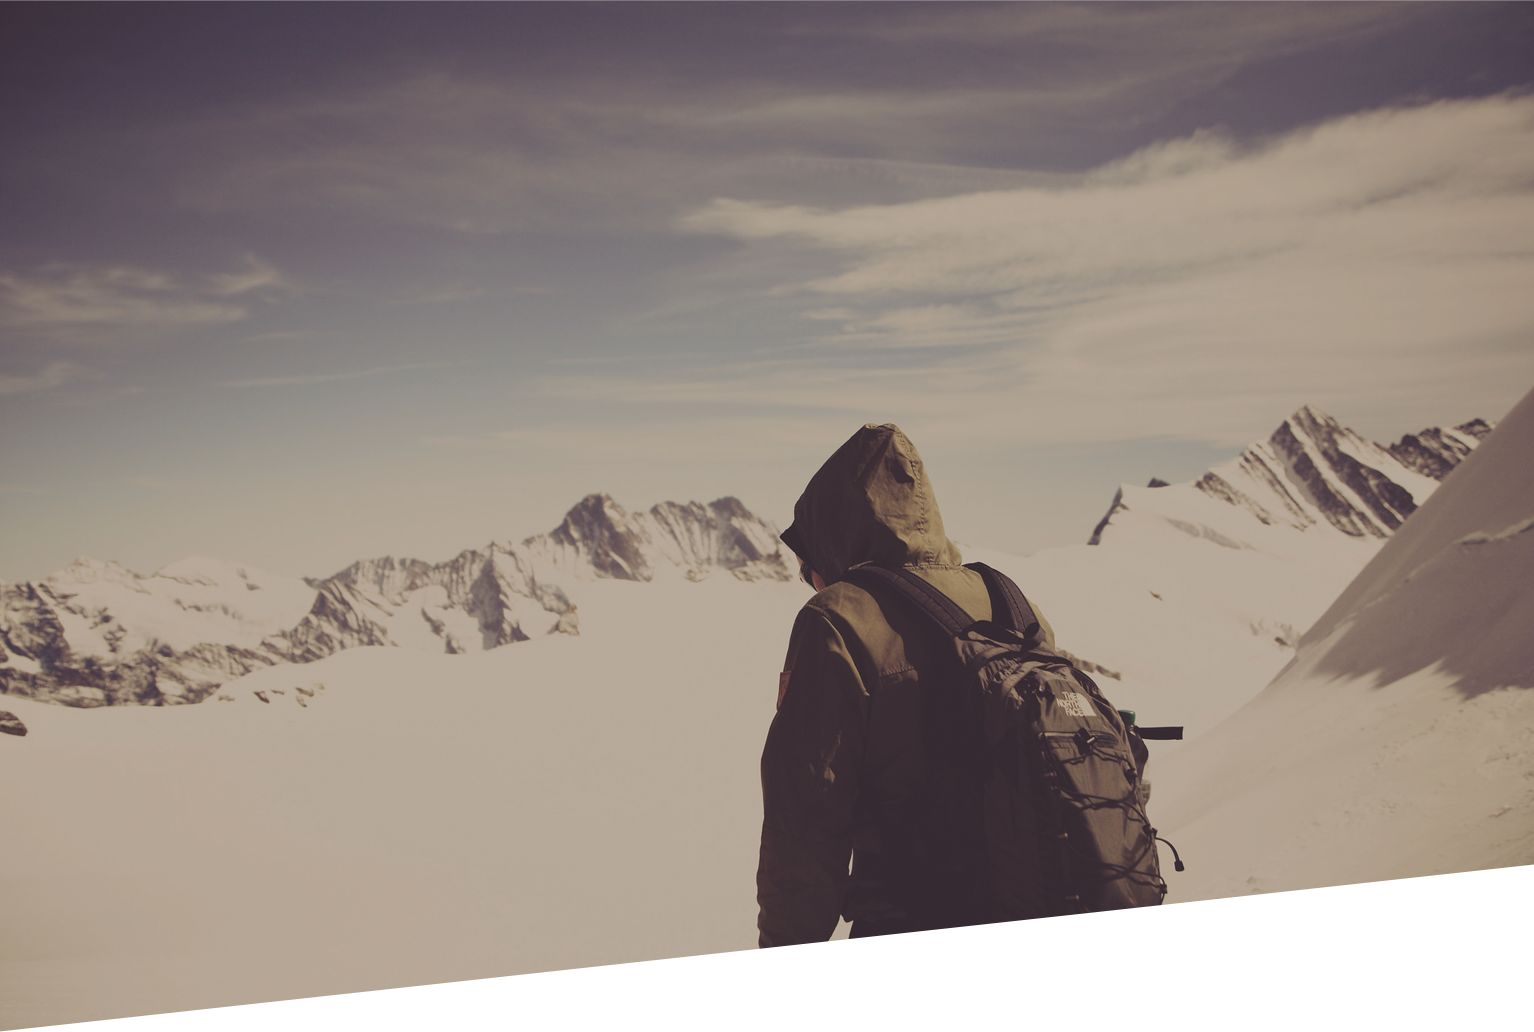
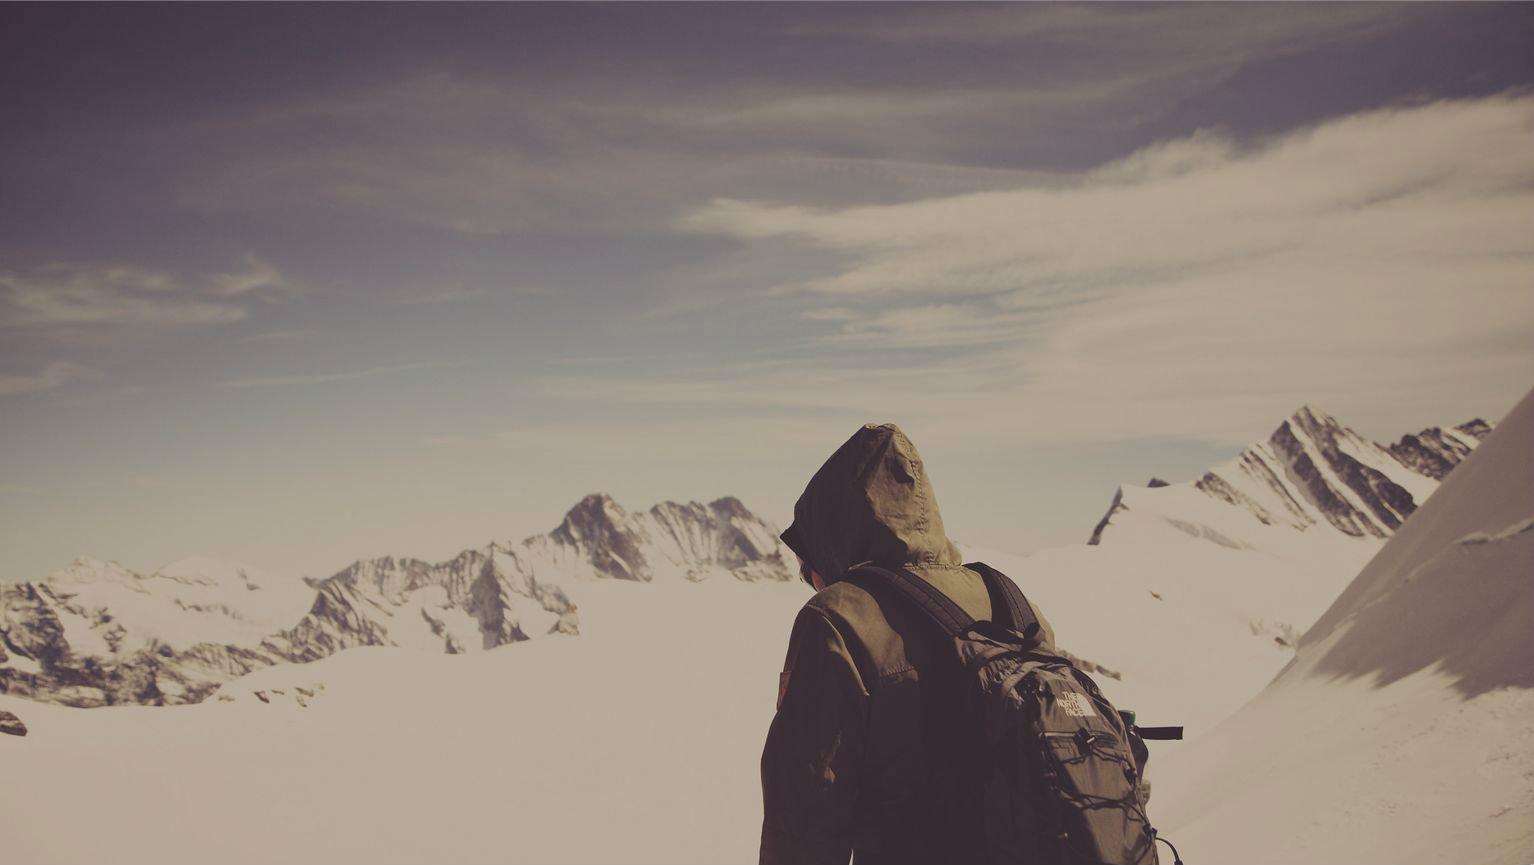
ef - hero section angled block

diff --git a/ef/markup/static/js/main.js b/ef/markup/static/js/main.js
@@ -480,10 +480,12 @@ var width, height, width1, height1, height2;
 
 // SECTION HERO ------------------------------------------
 var hero = document.querySelector( '.hero' );
+
 var heroBottom = document.querySelector( '.hero__bottom' );
-var heroImageBottom = document.querySelector('.hero-image-bottom');
-var heroTriangleBottom = document.querySelector( '#heroTriangleBottom' );
-var heroTriangleBottomCtx = heroTriangleBottom.getContext( '2d' );
+var heroBottomCanvas = document.querySelector( '#heroBottomCanvas' );
+var heroBottomCanvasContext = heroBottomCanvas.getContext( '2d' );
+var heroBottomImage = document.querySelector( '.hero-bottom-image' );
+
 
 // SECTION FOLLOW -----------------------------------------
 var follow = document.querySelector( '.follow' );
@@ -510,6 +512,19 @@ var citationBottom = document.querySelector( '.citation__bottom' );
 var citationBottomCanvas = document.querySelector( '#citationBottomCanvas' );
 var citationBottomCanvasContext = citationBottomCanvas.getContext( '2d' );
 var citationBottomImage = document.querySelector( '.citation-bottom-image' );
+
+// SECTION TEAM -----------------------------------------
+var team = document.querySelector( '.team' );
+
+var teamTop = document.querySelector( '.team__top' );
+var teamTopCanvas = document.querySelector( '#teamTopCanvas' );
+var teamTopCanvasContext = teamTopCanvas.getContext( '2d' );
+var teamTopImage = document.querySelector( '.team-top-image' );
+
+var teamBottom = document.querySelector( '.team__bottom' );
+var teamBottomCanvas = document.querySelector( '#teamBottomCanvas' );
+var teamBottomCanvasContext = teamBottomCanvas.getContext( '2d' );
+var teamBottomImage = document.querySelector( '.team-bottom-image' );
 
 // DRAW TRIANGLE TOP
 // -------------------------------------------------
@@ -595,9 +610,10 @@ window.addEventListener( 'DOMContentLoaded', function () {
     variablesValues();
 
     // SECTION HERO -----------------------------------------
-    stylingBottom( hero, heroBottom, heroTriangleBottom );
-    drawTriangleBottom( heroTriangleBottomCtx );
-    canvasToImage( heroImageBottom, heroTriangleBottomCtx, heroTriangleBottom );
+    stylingBottom( hero, heroBottom, heroBottomCanvas );
+    drawTriangleBottom( heroBottomCanvasContext );
+    canvasToImage( heroBottomImage, heroBottomCanvasContext, heroBottomCanvas );
+
 
     // SECTION FOLLOW -----------------------------------------
     stylingTop( follow, followTop, followTopCanvas );
@@ -614,6 +630,14 @@ window.addEventListener( 'DOMContentLoaded', function () {
     drawTriangleBottom( citationBottomCanvasContext );
     canvasToImage( citationTopImage, citationTopCanvasContext, citationTopCanvas );
     canvasToImage( citationBottomImage, citationBottomCanvasContext, citationBottomCanvas );
+
+    // SECTION TEAM -----------------------------------------
+    stylingTop( team, teamTop, teamTopCanvas );
+    stylingBottom( team, teamBottom, teamBottomCanvas );
+    drawTriangleTop( teamTopCanvasContext );
+    drawTriangleBottom( teamBottomCanvasContext );
+    canvasToImage( teamTopImage, teamTopCanvasContext, teamTopCanvas );
+    canvasToImage( teamBottomImage, teamBottomCanvasContext, teamBottomCanvas );
 }, false );
 
 window.addEventListener( 'resize', function () {
@@ -639,5 +663,13 @@ window.addEventListener( 'resize', function () {
     drawTriangleBottom( citationBottomCanvasContext );
     canvasToImage( citationTopImage, citationTopCanvasContext, citationTopCanvas );
     canvasToImage( citationBottomImage, citationBottomCanvasContext, citationBottomCanvas );
+
+    // SECTION TEAM -----------------------------------------
+    stylingTop( team, teamTop, teamTopCanvas );
+    stylingBottom( team, teamBottom, teamBottomCanvas );
+    drawTriangleTop( teamTopCanvasContext );
+    drawTriangleBottom( teamBottomCanvasContext );
+    canvasToImage( teamTopImage, teamTopCanvasContext, teamTopCanvas );
+    canvasToImage( teamBottomImage, teamBottomCanvasContext, teamBottomCanvas );
 }, false );
 
